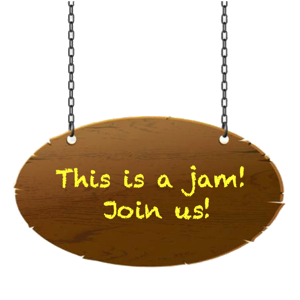
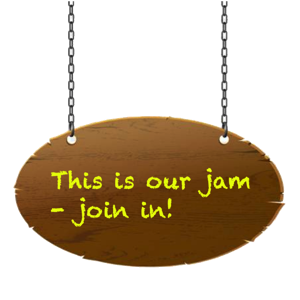
labels interface

Changed region(s): [[0.15, 0.54, 0.84, 0.78], [0.15, 0.69, 0.21, 0.72]]

diff --git a/user_interaction.py b/user_interaction.py
@@ -85,14 +85,14 @@ def update_chords_label(ap, app, bar, bars, chords, bar_karaoke, roles):
             ap.chords[c].setFont(QtGui.QFont("Arial", 45, QtGui.QFont.Bold))
 
             if roles[c] == 'aj':
-                ap.wait2.setText('You may join, but...')
-                ap.wait.setText("  I'm the main player now...      ")
+                ap.wait2.setText('  Jam along, but...')
+                ap.wait.setText("  I'm the main player now.      ")
                 ap.wait.setStyleSheet("QLabel {color: #FF93EE}")
                 ap.wait2.setStyleSheet("QLabel {color: #FF93EE}")
                 ap.wait.setFont(QtGui.QFont("Chalkduster", 25, QtGui.QFont.Bold))
 
             if roles[c] == 'user':
-                ap.wait2.setText('      Hey! Play! ')
+                ap.wait2.setText('      Play now! ')
                 ap.wait.setText("You're the main player now!")
                 ap.wait.setStyleSheet("QLabel {color: #00CFF9}")
                 ap.wait2.setStyleSheet("QLabel {color: #00CFF9}")

diff --git a/interface_info.py b/interface_info.py
@@ -107,13 +107,13 @@ class AppInfo(QWidget):
         self.roles.move(400, 180)
 
         self.wait = QtWidgets.QLabel(self)
-        self.wait.setText('    ...Let me think...          ')
+        self.wait.setText('  First, let me think...          ')
         self.wait.setStyleSheet("QLabel {color: #FF93EE}")
         self.wait.setFont(QtGui.QFont("Chalkduster", 30, QtGui.QFont.Bold))
         self.wait.move(660, 610)
 
         self.wait2 = QtWidgets.QLabel(self)
-        self.wait2.setText('       Humm...          ')
+        self.wait2.setText('        Hmm...          ')
         self.wait2.setStyleSheet("QLabel {color: #FF93EE}")
         self.wait2.setFont(QtGui.QFont("Chalkduster", 25, QtGui.QFont.Bold))
         self.wait2.move(800, 240)

diff --git a/interface_score.py b/interface_score.py
@@ -42,10 +42,11 @@ class AppScore(QWidget):
         self.wait.move(320, 450)
 
         self.wait2 = QtWidgets.QLabel(self)
-        self.wait2.setText('        So...      ')
+
+        self.wait2.setText('   Thanks for \n   participating!')
         self.wait2.setStyleSheet("QLabel {color: #FF93EE}")
         self.wait2.setFont(QtGui.QFont("Chalkduster", 25, QtGui.QFont.Bold))
-        self.wait2.move(520, 80)
+        self.wait2.move(520, 60)
 
         button1 = QPushButton('', self)
         button1.setStyleSheet('border-image: url(img/f1.png);')
